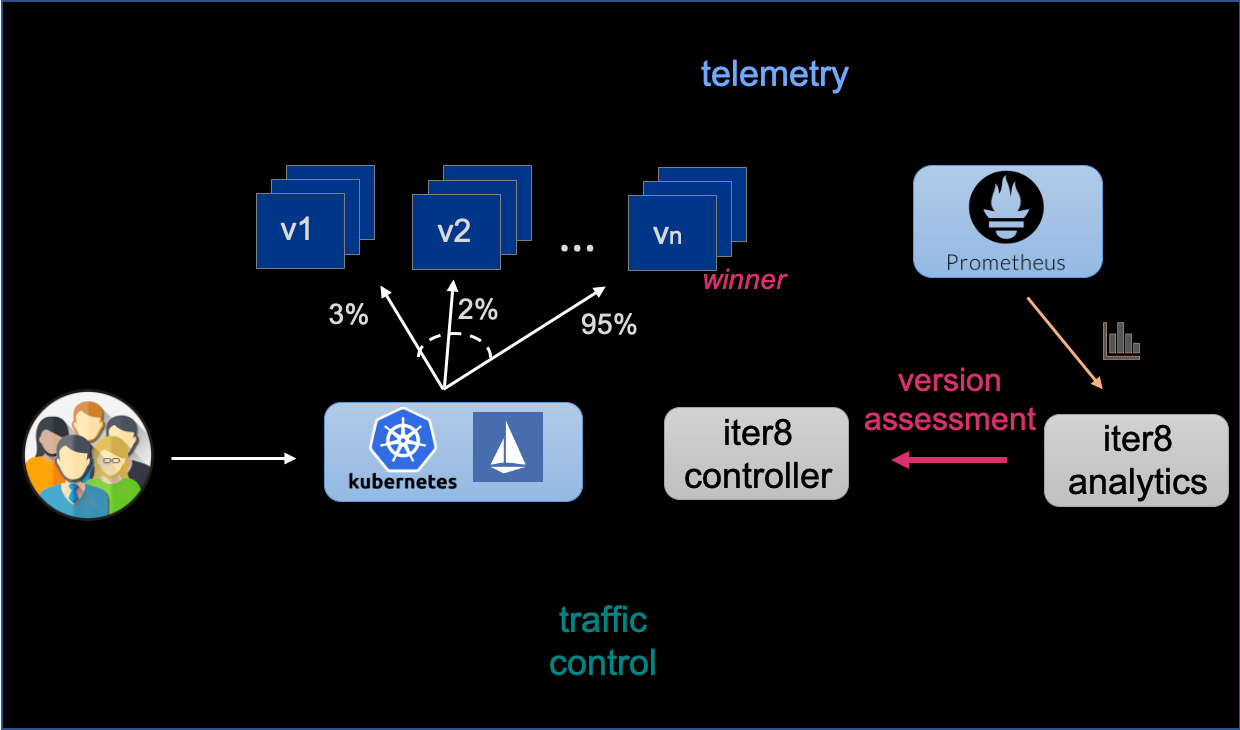
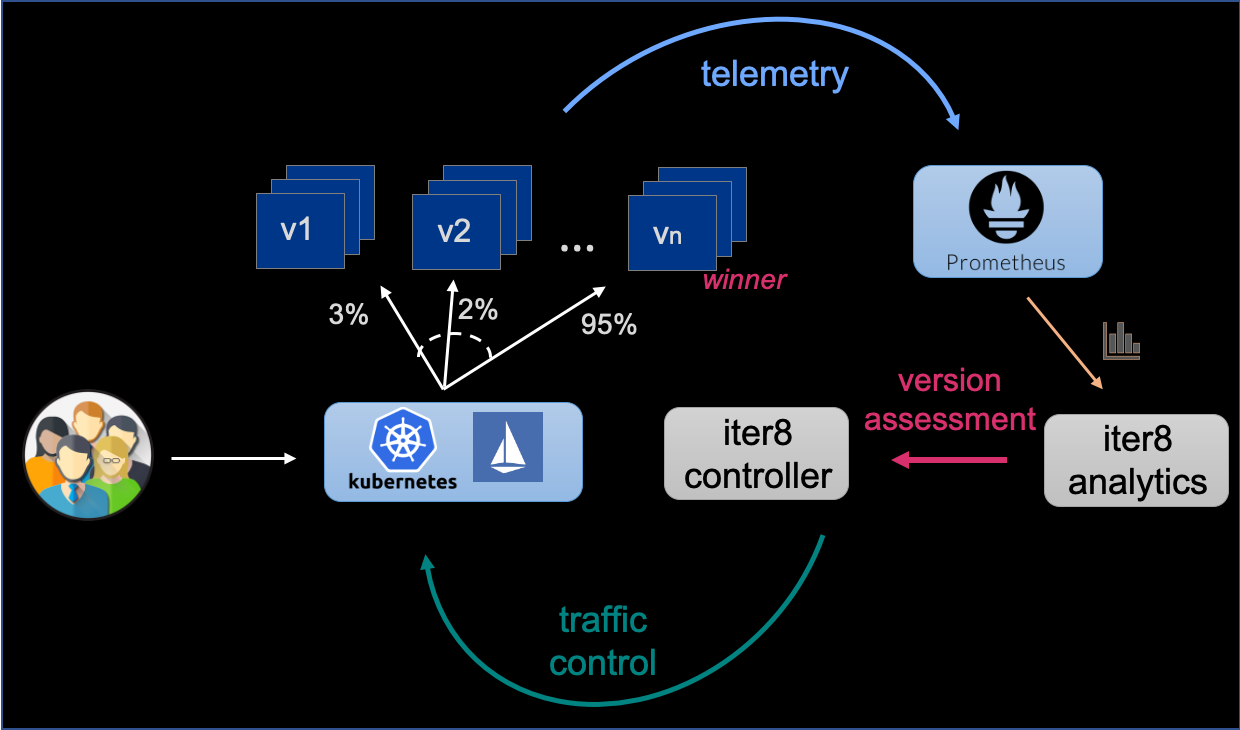
Miscellaneous changes (#216)
* Fix iter8pic.png

* Remove date

* Clean up .gitignore

* Add link to README

diff --git a/layouts/shortcodes/cardGroup.html b/layouts/shortcodes/cardGroup.html
@@ -2,12 +2,12 @@
   Purpose: create a grouping of image cards for the home page
 
   Usage:
-    {{< cardGroup >}}
-      {{< card ... >}}
-      {{< card ... >}}
-      {{< card ... >}}
-      ...
-    {{< \cardGroup >}}
+  {{< cardGroup >}}
+    {{< card ... >}}
+    {{< card ... >}}
+    {{< card ... >}}
+    ...
+  {{< \cardGroup >}}
 */}}
 
 <div class="cardGroup">

diff --git a/content/getting started/tutorials/abn.md b/content/getting started/tutorials/abn.md
@@ -1,13 +1,12 @@
 ---
-date: 2020-08-05T12:00:00+00:00
 menuTitle: A/B/n rollout
 title: Getting started with A/B/n rollout
 weight: 20
 summary: Learn how to perform an A/B/N rollout
----
+---ß
 
 This tutorial shows how _iter8_ can be used to perform A/B/n rollout on several versions of a service to select the one that maximizes a reward metric while also satisfiying any other requirements.
-
+ß
 This tutorial has eight steps, which are meant to be tried in order.
 You will learn:
 

diff --git a/README.md b/README.md
@@ -8,6 +8,8 @@
 This repository contains the source code for [iter8.tools](https://iter8.tools) and
 [preliminary.iter8.tools](https://preliminary.iter8.tools).
 
+The main iter8 repository can be found [here](https://github.com/iter8-tools/iter8).
+
 # Usage
 
 Install Hugo
@@ -92,7 +94,6 @@ For example:
 
 ```md
 ---
-date: 2016-04-09T16:50:16+02:00
 title: Algorithms
 weight: 3
 ---

diff --git a/content/getting started/tutorials/canary.md b/content/getting started/tutorials/canary.md
@@ -1,5 +1,4 @@
 ---
-date: 2016-04-09T16:50:16+02:00
 menuTitle: Canary testing
 title: Getting started with canary testing
 weight: 20

diff --git a/content/getting started/installation/red-hat.md b/content/getting started/installation/red-hat.md
@@ -1,5 +1,4 @@
 ---
-date: 2016-04-09T16:50:16+02:00
 menuTitle: Red Hat OpenShift
 title: Iter8 on Red Hat OpenShift
 weight: 20

diff --git a/content/iter8 trend/_index.md b/content/iter8 trend/_index.md
@@ -1,5 +1,4 @@
 ---
-date: 2020-08-11T12:00:00+00:00
 menuTitle: iter8-trend
 title: Getting Started with iter8-trend
 weight: 25

diff --git a/content/getting started/installation/kubernetes.md b/content/getting started/installation/kubernetes.md
@@ -1,5 +1,4 @@
 ---
-date: 2016-04-09T16:50:16+02:00
 menuTitle: Kubernetes
 title: Iter8 on Kubernetes and Istio
 weight: 10

diff --git a/content/integrations/grafana.md b/content/integrations/grafana.md
@@ -1,5 +1,4 @@
 ---
-date: 2020-08-11T12:00:00+00:00
 menuTitle: Grafana
 title: Integrating Iter8 with Grafana
 weight: 20

diff --git a/content/reference/experiment.md b/content/reference/experiment.md
@@ -1,5 +1,4 @@
 ---
-date: 2016-04-09T16:50:16+02:00
 menuTitle: Experiment
 title: Iter8's experiment CRD
 weight: 20

diff --git a/content/integrations/kui.md b/content/integrations/kui.md
@@ -1,6 +1,5 @@
 
 ---
-date: 2020-08-06T12:00:00+00:00
 menuTitle: Kui
 title: Integrating Iter8 with KUI
 weight: 10

diff --git a/content/reference/algorithms.md b/content/reference/algorithms.md
@@ -1,5 +1,4 @@
 ---
-date: 2016-04-09T16:50:16+02:00
 menuTitle: Algorithms
 title: Iter8's algorithms
 weight: 30

diff --git a/content/reference/metrics.md b/content/reference/metrics.md
@@ -1,5 +1,4 @@
 ---
-date: 2016-04-09T16:50:16+02:00
 menuTitle: Metrics
 title: Iter8's metrics
 weight: 10
